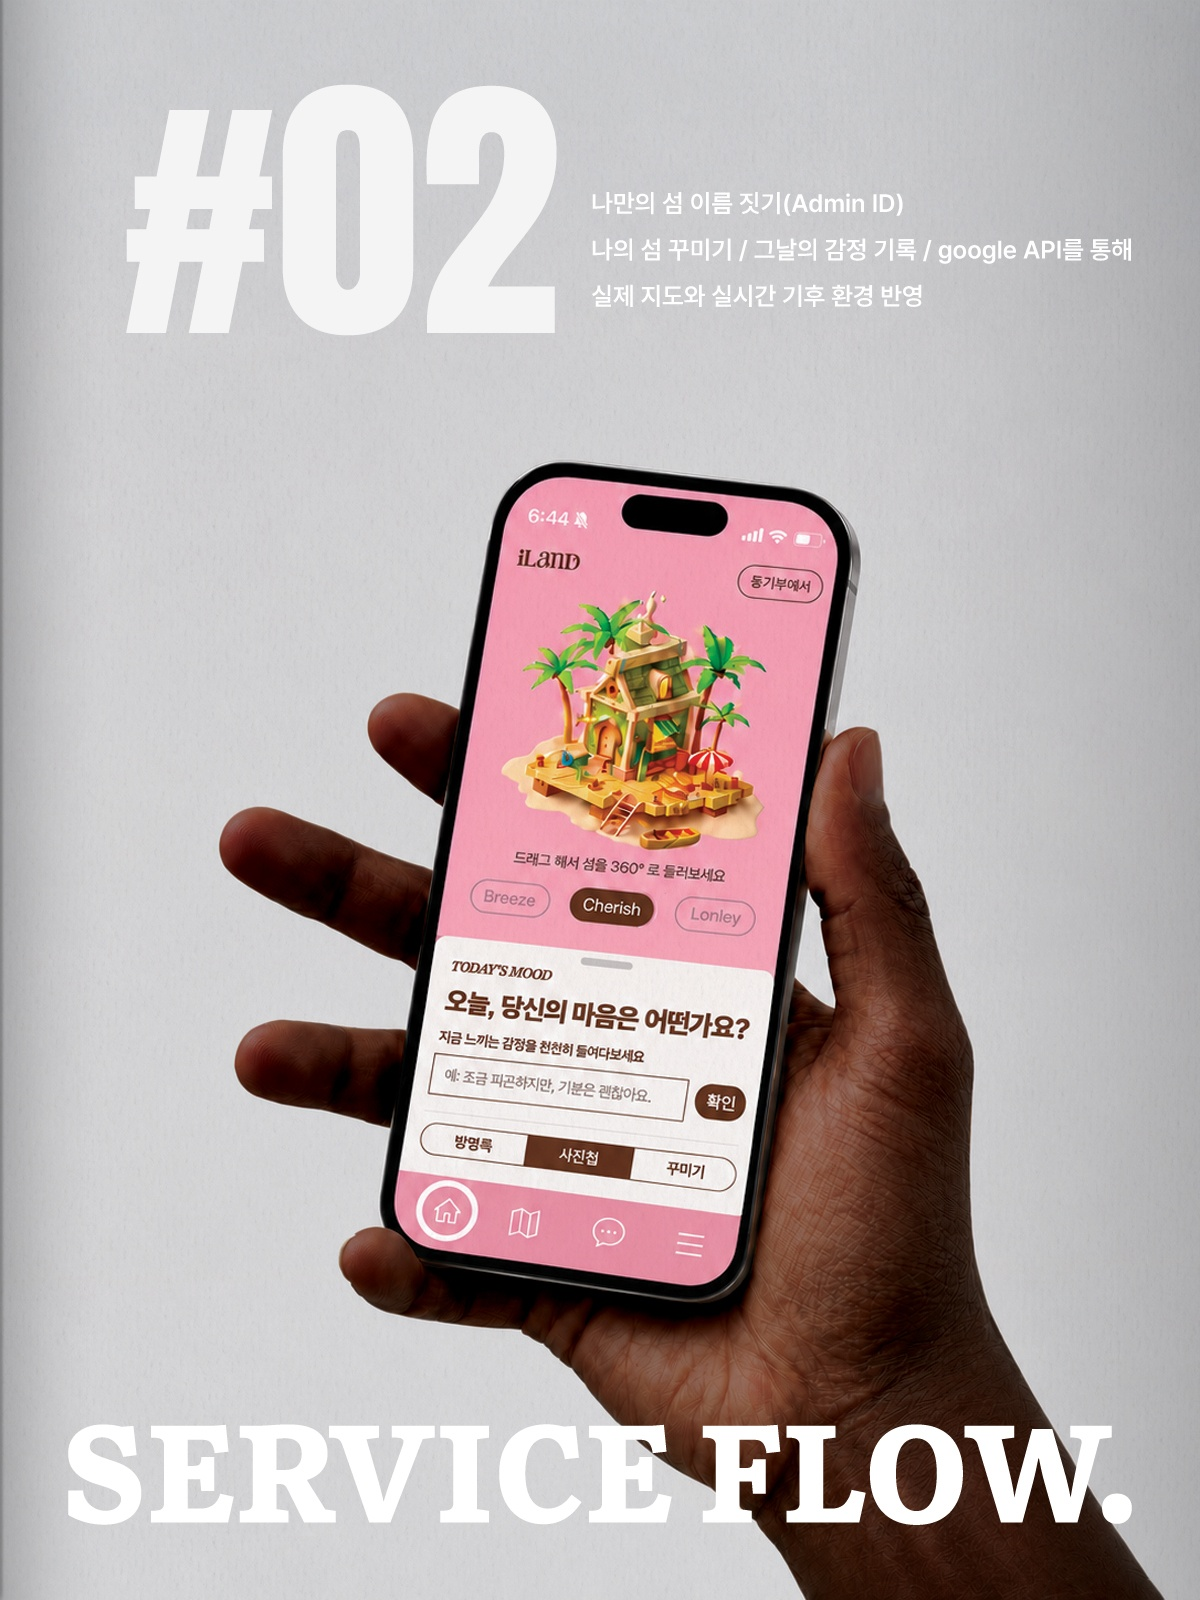
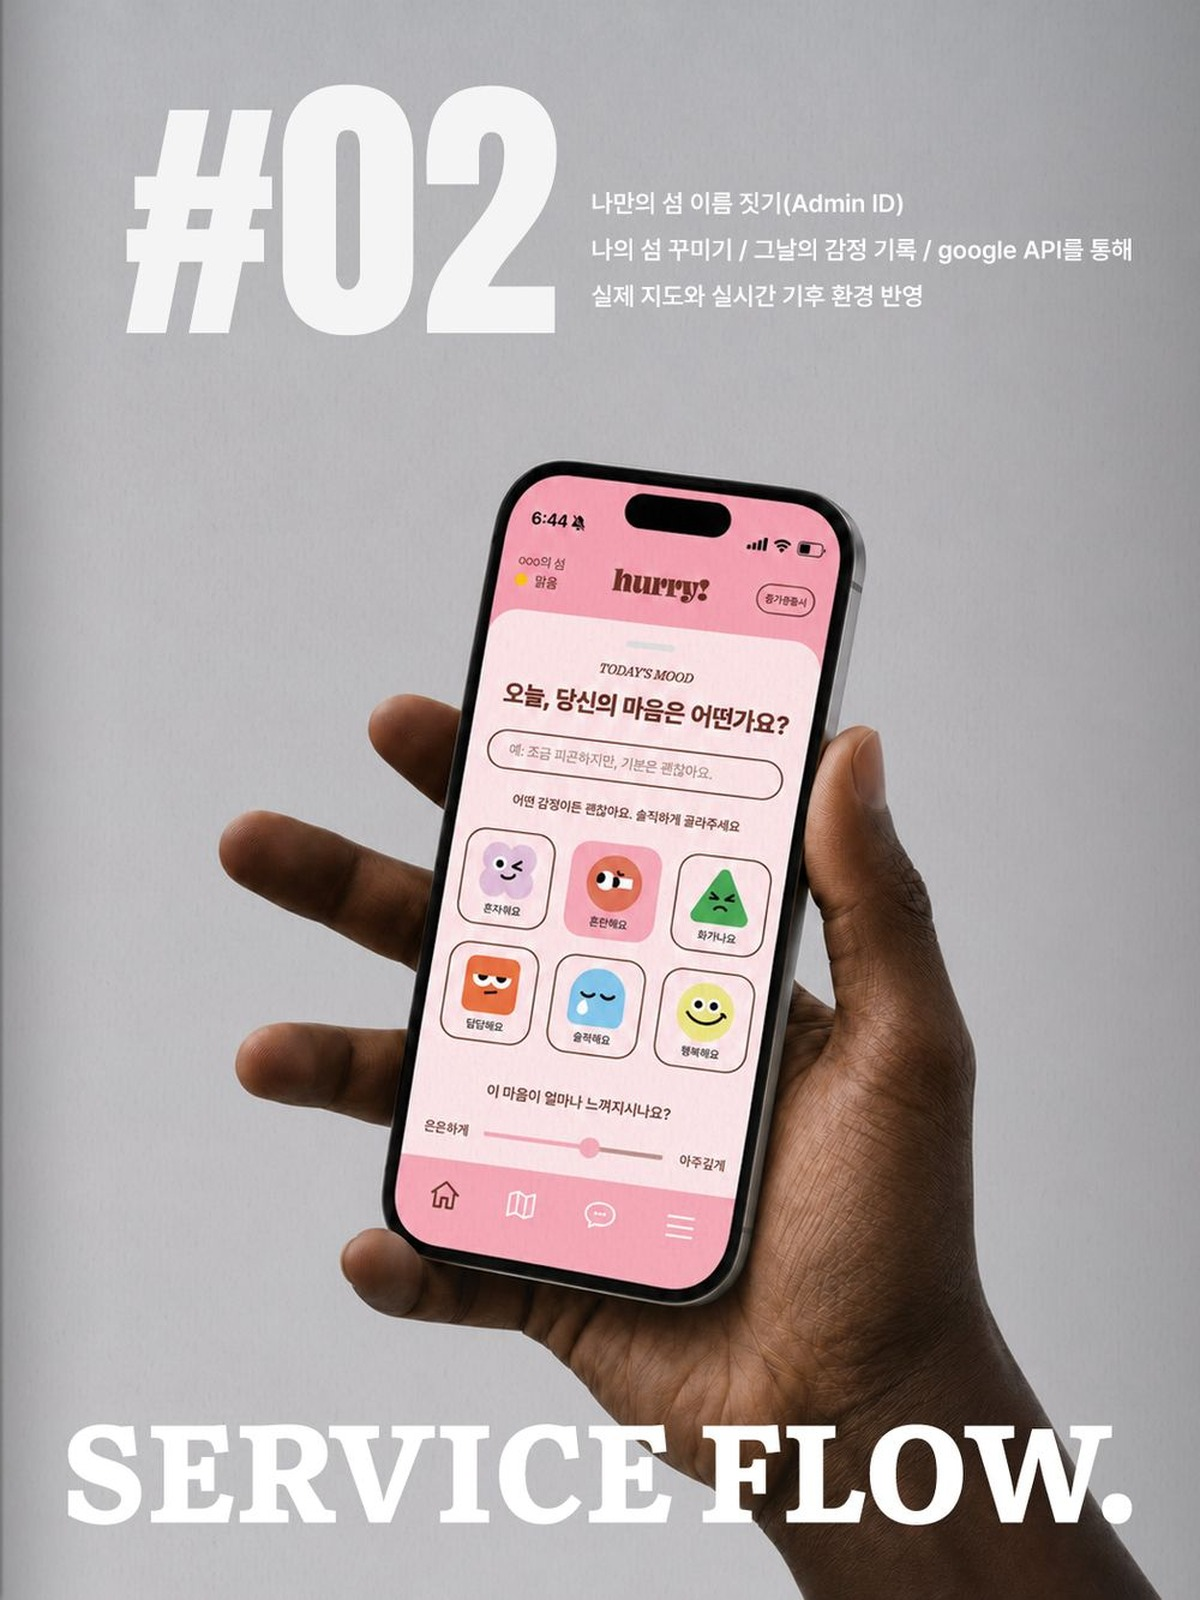
Fix mobile double-scroll and embed/video page collapse in work modal
Lock background scroll with a position:fixed technique instead of
body overflow alone, which didn't stop scroll chaining on mobile.
Restore proper sizing for app-embed/video-overlay pages on narrow
viewports (they were collapsing to 0 height since all their content
is absolutely positioned), and move the prev/next nav buttons back
inside the viewport. Also swap iLanD's live app embed to a pixel-exact
flood-fill cutout of the real phone photo, and replace the SERVICE
FLOW spread images.

Claude-Session: https://claude.ai/code/session_01VV9UabT7LbgQmEvmF88VyW

diff --git a/src/components/WorkModal.jsx b/src/components/WorkModal.jsx
@@ -113,13 +113,8 @@ function Page({ page, pageNumber }) {
 
   if (page.type === 'app-embed-inset') {
     return (
-      <div className="work-book__page work-book__page--image work-book__page--app-embed-inset">
-        <img src={page.bgImage} className="work-book__video-overlay-bg" />
-        <iframe
-          src={page.url}
-          title={page.title || 'App preview'}
-          loading="lazy"
-          allow="camera; microphone"
+      <div className="work-book__page work-book__page--app-embed-inset">
+        <div
           className="work-book__app-embed-inset-frame"
           style={{
             left: `${page.box.left * 100}%`,
@@ -127,7 +122,10 @@ function Page({ page, pageNumber }) {
             width: `${page.box.width * 100}%`,
             height: `${page.box.height * 100}%`,
           }}
-        />
+        >
+          <iframe src={page.url} title={page.title || 'App preview'} loading="lazy" allow="camera; microphone" />
+        </div>
+        <img src={page.bgImage} className="work-book__video-overlay-bg" />
       </div>
     );
   }
@@ -208,12 +206,24 @@ export default function WorkModal({ project, onClose }) {
       if (event.key === 'ArrowLeft') goPrev();
     };
     document.addEventListener('keydown', handleKeyDown);
-    document.body.style.overflow = 'hidden';
-    return () => {
-      document.removeEventListener('keydown', handleKeyDown);
-      document.body.style.overflow = '';
-    };
+    return () => document.removeEventListener('keydown', handleKeyDown);
   }, [onClose, spreadCount]);
+
+  useEffect(() => {
+    const scrollY = window.scrollY;
+    const { body } = document;
+    body.style.position = 'fixed';
+    body.style.top = `-${scrollY}px`;
+    body.style.left = '0';
+    body.style.right = '0';
+    return () => {
+      body.style.position = '';
+      body.style.top = '';
+      body.style.left = '';
+      body.style.right = '';
+      window.scrollTo(0, scrollY);
+    };
+  }, []);
 
   const leftIndex = spreadIndex * 2;
   const rightIndex = leftIndex + 1;

diff --git a/src/index.css b/src/index.css
@@ -636,13 +636,26 @@ a { color: inherit; text-decoration: none; }
 
 .work-book__page--app-embed-inset {
   position: relative;
+  padding: 0;
+  overflow: hidden;
+}
+
+.work-book__page--app-embed-inset .work-book__video-overlay-bg {
+  pointer-events: none;
 }
 
 .work-book__app-embed-inset-frame {
   position: absolute;
+  background: #fff;
+  cursor: pointer;
+}
+
+.work-book__app-embed-inset-frame iframe {
+  width: 100%;
+  height: 100%;
   border: 0;
   display: block;
-  background: #fff;
+  cursor: pointer;
 }
 
 .work-book__page--video-overlay {
@@ -901,8 +914,33 @@ a { color: inherit; text-decoration: none; }
   }
 
   .work-book__page {
+    flex: 0 0 auto;
     aspect-ratio: auto;
     overflow-y: visible;
+  }
+
+  .work-book__page--app-embed-inset,
+  .work-book__page--video-overlay {
+    aspect-ratio: 3 / 4;
+  }
+
+  .work-book__nav-btn {
+    top: auto;
+    bottom: 10px;
+    transform: none;
+    width: 38px;
+    height: 38px;
+    border-radius: 50%;
+    background: rgba(20, 20, 26, 0.55);
+    z-index: 3;
+  }
+
+  .work-book__nav-btn--prev {
+    left: 10px;
+  }
+
+  .work-book__nav-btn--next {
+    right: 10px;
   }
 
   .hero__actions {

diff --git a/src/data/projects.js b/src/data/projects.js
@@ -211,7 +211,7 @@ export const projects = [
     year: 2025,
     thumbClass: 'work-card__thumb--1',
     thumbImage: '/work/iland-lonely/thumb.jpg',
-    inProgress: true,
+    inProgress: false,
     customPages: true,
     leadImages: [
       '/work/iland-lonely/detail-01.jpg',
@@ -235,7 +235,7 @@ export const projects = [
       '/work/iland-lonely/detail-19.jpg',
       {
         type: 'app-embed-inset',
-        bgImage: '/work/iland-lonely/detail-20-phone-bg.jpg',
+        bgImage: '/work/iland-lonely/detail-20-phone-cutout.png',
         url: 'https://iland-nfc-demo.vercel.app',
         title: 'iLanD',
         box: { left: 303 / 1200, top: 177 / 1600, width: 593 / 1200, height: 1253 / 1600 },
